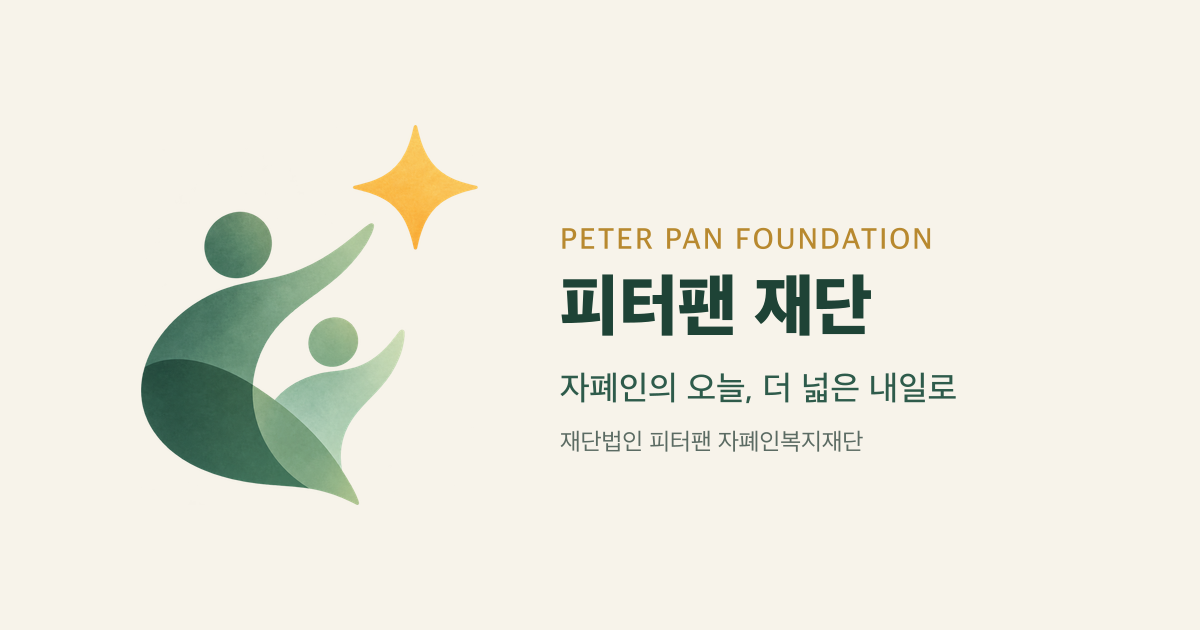
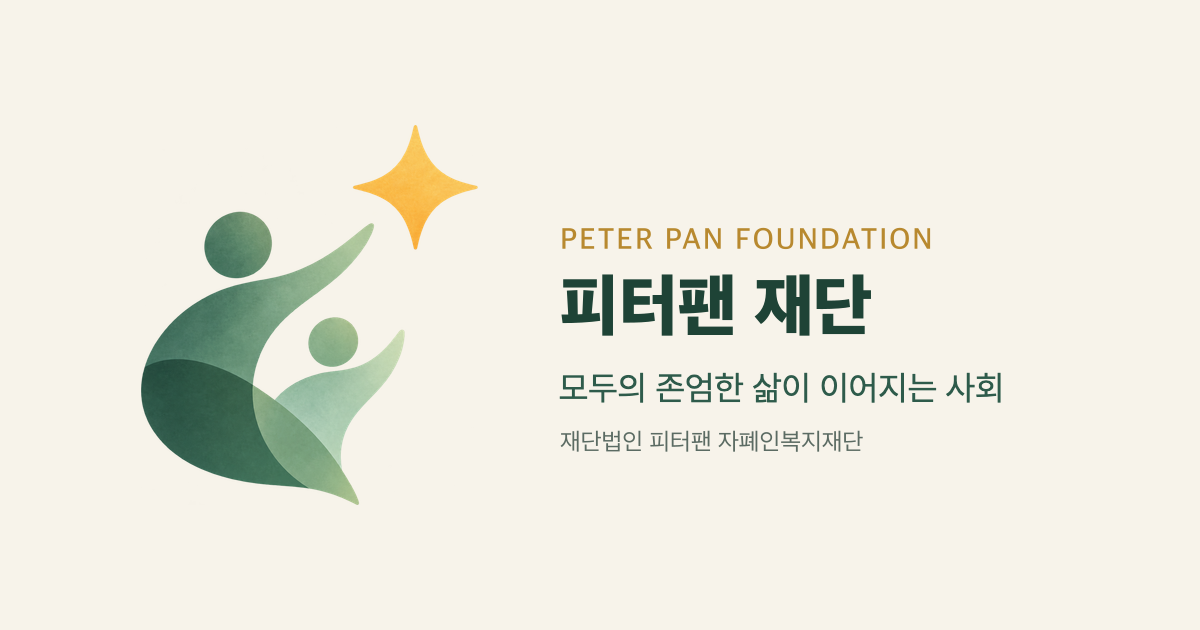
enhance: 일부 수정

Changed region(s): [[0.4625, 0.573, 0.8325, 0.6635]]

diff --git a/apps/peterpan-website/lib/foundation.ts b/apps/peterpan-website/lib/foundation.ts
@@ -105,7 +105,7 @@ export const FOUNDING_AIM = [
 export const CREED_STATEMENT =
   "자폐인의 존엄한 삶과 자립을 지원하며, 모두가 함께 살아가는 포용적인 사회를 만듭니다.";
 
-export const CREED_HORIZON = "모두의 존엄한 삶이 이어지는 사회.";
+export const CREED_HORIZON = "자폐인의 오늘, 더 넓은 내일로";
 
 export const CREED_PRINCIPLES = [
   { name: "people", words: "존중 · 포용", title: "함께하는 사람들" },

diff --git a/packages/db/scripts/bootstrap.ts b/packages/db/scripts/bootstrap.ts
@@ -14,10 +14,7 @@ import { getDb, notices, posts, siteSettings } from "../src";
  */
 const ROOT_PATH = resolve(import.meta.dirname, "../../..");
 
-const BYLAWS_PATH = resolve(
-  ROOT_PATH,
-  "apps/peterpan-website/public/docs/bylaws.pdf",
-);
+const BYLAWS_PATH = resolve(ROOT_PATH, "packages/db/seed/bylaws.pdf");
 
 const SETTINGS = [
   ["representative", "변경희 (설립발기인 대표)"],

diff --git a/README.md b/README.md
@@ -40,7 +40,7 @@ npm run dev
 | `peterpan-website` | [http://localhost:3000](http://localhost:3000) |
 | `peterpan-admin`   | [http://localhost:3001](http://localhost:3001) |
 
-`db:migrate`는 테이블을, `db:bootstrap`은 스토리지 버킷과 처음 게시물·정관 PDF를 만든다.
+`db:migrate`는 테이블을, `db:bootstrap`은 스토리지 버킷과 처음 게시물·정관 PDF(`packages/db/seed/bylaws.pdf`)를 만든다.
 
 ---
 
